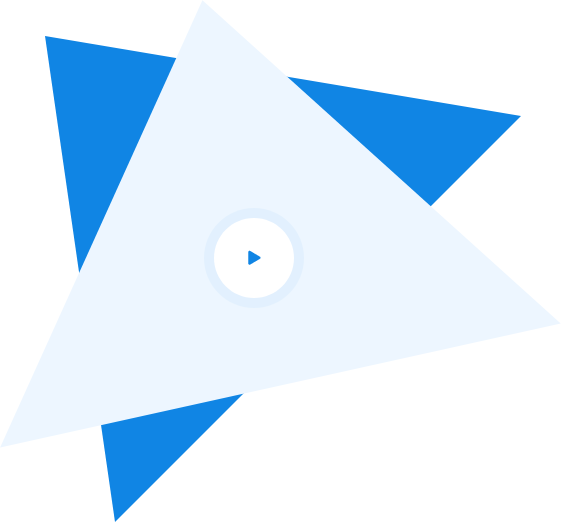
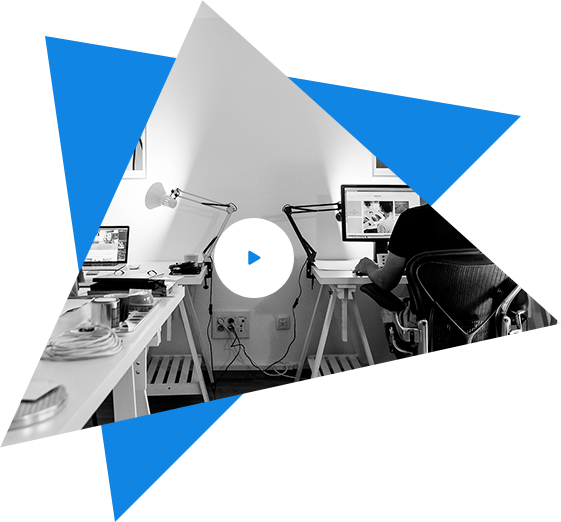
Стилизовали раздел page-app

diff --git a/index.html b/index.html
@@ -1,5 +1,5 @@
 <!DOCTYPE html>
-<html lang="en">
+<html lang="zxx">
 
 <head>
     <meta charset="UTF-8">
@@ -94,21 +94,19 @@
             </div>
             <div class="grid-text">
                 <p>Lorem ipsum dolor sit amet, consectetur adipisicing elit, sed do eiusmod tempor incididunt ut labore
-                et
-                dolore
-                magna aliqua. Ut enim ad minim veniam, quis nostrud exercitation ullamco laboris nisi ut aliquip ex
-                ea
-                commodo
-                consequat. Duis aute irure dolor in reprehenderit in voluptate velit esse cillum dolore eu fugiat
-                nulla
-                pariatur.</p>
-            <div class="grid-text-founder"><span>Rosalina Pong</span> - Founder, uithemes</div>
+                    et
+                    dolore
+                    magna aliqua. Ut enim ad minim veniam, quis nostrud exercitation ullamco laboris nisi ut aliquip ex
+                    ea
+                    commodo
+                    consequat. Duis aute irure dolor in reprehenderit in voluptate velit esse cillum dolore eu fugiat
+                    nulla
+                    pariatur.</p>
+                <div class="grid-text-founder"><span>Rosalina Pong</span> - Founder, uithemes</div>
             </div>
 
-            <
         </div>
     </div>
-
     <div class="page-subscribe">
         <div class="wrap">
             <div class="box-subscribe">
@@ -117,7 +115,7 @@
                     <p>Create your free account now & get 30 days free trail. No credit card required</p>
                     <div class="box-subscribe-user">
                         <input type="email" placeholder="Enter your email address">
-                        <input type="submit" placeholder="Отправить">
+                        <input type="submit" value="Отправить">
                     </div>
 
                 </div>
@@ -129,32 +127,85 @@
     </div>
 
     <div class="page-software">
-        <div></div>
-        <h2>Grab Your Software With Amazing Features</h2>
-        <p>Lorem ipsum dolor sit amet, consectetur adipisicing elit, sed do eiusmod tempor incididunt ut labore et
-            dolore magna aliqua. Ut enim ad minim veniam, quis nostrud exercitation ullamco laboris nisi ut aliquip
-            ex
-            ea commodo consequat. Duis aute irure dolor in reprehenderit in voluptate velit esse cillum.</p>
-        <dl>
-            <dt>01. Clean Design</dt>
-            <dd>
-                Lorem ipsum dolor sit amet, consectetur adipisicing elit, sed do eiusmod tempor incididunt ut labore
-                et
-                dolore magna aliqua. Ut enim ad minim veniam, quis nostrud exercitation ullamco laboris nisi ut
-                aliquip
-                ex ea commodo consequat. Duis aute irure dolor in reprehenderit in voluptate velit esse cillum.
-            </dd>
-            <dt>02. Easy To Customize</dt>
-            <dd>
-                Lorem ipsum dolor sit amet, consectetur adipisicing elit, sed do eiusmod tempor incididunt ut labore
-                et
-                dolore magna aliqua. Ut enim ad minim veniam, quis nostrud exercitation ullamco laboris nisi ut
-                aliquip
-                ex ea commodo consequat. Duis aute irure dolor in reprehenderit in voluptate velit esse cillum.
-            </dd>
-        </dl>
+        <div class="page-software-flex wrap">
+            <div>
+                <div class="page-software-icon">
 
+                </div>
+                <h2 class="title-h2">Grab Your Software With Amazing Features</h2>
+                <p>Lorem ipsum dolor sit amet, consectetur adipisicing elit, sed do eiusmod tempor incididunt ut
+                    labore
+                    et
+                    dolore magna aliqua. Ut enim ad minim veniam, quis nostrud exercitation ullamco laboris nisi ut
+                    aliquip
+                    ex
+                    ea commodo consequat. Duis aute irure dolor in reprehenderit in voluptate velit esse cillum.</p>
+                <dl class="page-software-list">
+                    <dt>01. Clean Design</dt>
+                    <dd>
+                        Lorem ipsum dolor sit amet, consectetur adipisicing elit, sed do eiusmod tempor incididunt
+                        ut
+                        labore
+                        et
+                        dolore magna aliqua. Ut enim ad minim veniam, quis nostrud exercitation ullamco laboris nisi
+                        ut
+                        aliquip
+                        ex ea commodo consequat. Duis aute irure dolor in reprehenderit in voluptate velit esse
+                        cillum.
+                    </dd>
+                    <dt>02. Easy To Customize</dt>
+                    <dd>
+                        Lorem ipsum dolor sit amet, consectetur adipisicing elit, sed do eiusmod tempor incididunt
+                        ut
+                        labore
+                        et
+                        dolore magna aliqua. Ut enim ad minim veniam, quis nostrud exercitation ullamco laboris nisi
+                        ut
+                        aliquip
+                        ex ea commodo consequat. Duis aute irure dolor in reprehenderit in voluptate velit esse
+                        cillum.
+                    </dd>
+                    <dt>03. Clean Design</dt>
+                    <dd>
+                        Lorem ipsum dolor sit amet, consectetur adipisicing elit, sed do eiusmod tempor incididunt
+                        ut
+                        labore
+                        et
+                        dolore magna aliqua. Ut enim ad minim veniam, quis nostrud exercitation ullamco laboris nisi
+                        ut
+                        aliquip
+                        ex ea commodo consequat. Duis aute irure dolor in reprehenderit in voluptate velit esse
+                        cillum.
+                    </dd>
+                    <dt>04. Clean Design</dt>
+                    <dd>
+                        Lorem ipsum dolor sit amet, consectetur adipisicing elit, sed do eiusmod tempor incididunt
+                        ut
+                        labore
+                        et
+                        dolore magna aliqua. Ut enim ad minim veniam, quis nostrud exercitation ullamco laboris nisi
+                        ut
+                        aliquip
+                        ex ea commodo consequat. Duis aute irure dolor in reprehenderit in voluptate velit esse
+                        cillum.
+                    </dd>
+                    <dt>05. Clean Design</dt>
+                    <dd>
+                        Lorem ipsum dolor sit amet, consectetur adipisicing elit, sed do eiusmod tempor incididunt
+                        ut
+                        labore
+                        et
+                        dolore magna aliqua. Ut enim ad minim veniam, quis nostrud exercitation ullamco laboris nisi
+                        ut
+                        aliquip
+                        ex ea commodo consequat. Duis aute irure dolor in reprehenderit in voluptate velit esse
+                        cillum.
+                    </dd>
+                </dl>
+            </div>
+        </div>
     </div>
+
 
     <div class="page-stat">
 
@@ -171,18 +222,22 @@
     </div>
 
     <div class="page-app">
-
-        <h2>Meet With Future Landingpage</h2>
-        <p>Lorem ipsum dolor sit amet, consectetur adipisicing elit, sed do eiusmod tempor incididunt ut labore et
-            dolore magna aliqua. Ut enim ad minim veniam, quis nostrud exercitation ullamco laboris nisi ut aliquip
-            ex ea commodo consequat. Duis aute irure dolor in reprehenderit in voluptate velit esse cillum.</p>
-        <p>Available Now</p>
-        <ul>
-            <li><a href="#" target="_blank"></a></li>
-            <li><a href="#" target="_blank"></a></li>
-        </ul>
-        <img src="img/play.png" alt="#">
-
+        <div class="wrap">
+            <div class="content-app">
+                <h2 class="title-h2">Meet With  Future&nbsp;Landingpage</h2>
+                <p>Lorem ipsum dolor sit amet, consectetur adipisicing elit, sed do eiusmod tempor incididunt ut labore
+                    et
+                    dolore magna aliqua. Ut enim ad minim veniam, quis nostrud exercitation ullamco laboris nisi ut
+                    aliquip
+                    ex ea commodo consequat. Duis aute irure dolor in reprehenderit in voluptate velit esse cillum.</p>
+                <p class="page-app-text">Available Now</p>
+                <ul class="page-app-list">
+                    <li><a class="page-app-android" href="#" target="_blank"></a></li>
+                    <li><a class="page-app-ios" href="#" target="_blank"></a></li>
+                </ul>
+            </div>
+            <a class="video-app" href="#"><img src="img/play.png" alt="video"></a>
+        </div>
     </div>
 
     <div class="page-analytics">
@@ -193,11 +248,13 @@
                     <img src="img/icon.png" width="88" height="88" alt="">
                 </div>
                 <h2>Limpon Is Suitable For Anytype LandingPage</h2>
-                <p>Lorem ipsum dolor sit amet, consectetur adipisicing elit, sed do eiusmod tempor incididunt ut labore
+                <p>Lorem ipsum dolor sit amet, consectetur adipisicing elit, sed do eiusmod tempor incididunt ut
+                    labore
                     et
                     dolore magna aliqua. Ut enim ad minim veniam, quis nostrud exercitation ullamco laboris nisi ut
                     aliquip
-                    ex ea commodo consequat. Duis aute irure dolor in reprehenderit in voluptate velit esse cillum.</p>
+                    ex ea commodo consequat. Duis aute irure dolor in reprehenderit in voluptate velit esse cillum.
+                </p>
                 <a href="#" class="btn-primary">get started now</a>
             </div>
         </div>
@@ -207,8 +264,10 @@
         <div>
             <img src="img/icon.png" width="88" height="88" alt="">
             <h2>Easy To Etid & Very Easily Control</h2>
-            <p>Lorem ipsum dolor sit amet, consectetur adipisicing elit, sed do eiusmod tempor incididunt ut labore et
-                dolore magna aliqua. Ut enim ad minim veniam, quis nostrud exercitation ullamco laboris nisi ut aliquip
+            <p>Lorem ipsum dolor sit amet, consectetur adipisicing elit, sed do eiusmod tempor incididunt ut labore
+                et
+                dolore magna aliqua. Ut enim ad minim veniam, quis nostrud exercitation ullamco laboris nisi ut
+                aliquip
                 ex ea commodo consequat. Duis aute irure dolor in reprehenderit in voluptate velit esse cillum.</p>
             <a href="#" class="btn-primary">learn more</a>
         </div>
@@ -326,10 +385,10 @@
 
     <div class="page-form">
         <h2>Start Your Free Trail No Need Credit Card.</h2>
-        <form action="">
-            <input type="text" name="" id="" placeholder="Enter your name here">
-            <input type="email" name="" id="" placeholder="Enter your email here">
-            <textarea name="" id="" placeholder="Enter your message here"></textarea>
+        <form action="sendEmail">
+            <input type="text" placeholder="Enter your name here">
+            <input type="email" placeholder="Enter your email here">
+            <textarea placeholder="Enter your message here"></textarea>
             <button type="submit" class="btn-primary"><span></span>Submit now</button>
         </form>
     </div>

diff --git a/css/style.css b/css/style.css
@@ -312,7 +312,86 @@ a {
 
 .page-subscribe {
     background-color: #12224b;
-    background-image: linear-gradient(-240deg, #0a2090 0%, #76a0ca 100%);
+    background-image: linear-gradient(-240deg, #0d162e 0%, #1085e4 100%);
+}
+
+.page-software {
+    background-image: url(../img/software-fon.png);
+    background-repeat: no-repeat;
+    background-size: 45%;
+    background-position-x: left;
+    background-position-y: bottom;
+
+}
+
+.page-software-flex {
+    display: flex;
+    justify-content: flex-end;
+}
+
+.page-software-flex>div {
+    flex-basis: 55%;
+    padding: 48px 0 20px 0;
+}
+
+.page-software .title-h2 {
+    max-width: 537px;
+    margin-top: 31px;
+    margin-bottom: 31px;
+    margin-left: -10px;
+}
+
+.page-software-list {
+    margin-top: 38px;
+    height: 340px;
+    overflow: hidden;
+    overflow-y: scroll;
+}
+
+.page-software-list dt {
+    color: #5a6789;
+    font-size: 16px;
+    font-weight: 700;
+    line-height: 26px;
+    margin-bottom: 20px;
+}
+
+.page-software-list dd {
+    font-size: 14px;
+    font-weight: 400;
+    line-height: 24px;
+    margin-left: 0;
+    margin-bottom: 50px;
+}
+
+.page-software-list::-webkit-scrollbar {
+    width: 4px;
+    height: 314px;
+    background-color: #f3f6ff;
+}
+
+.page-software-list::-webkit-scrollbar-track {
+    background-color: #f3f6ff;
+    ;
+}
+
+.page-software-list::-webkit-scrollbar-track-piece {
+    background-color: #ffffff;
+}
+
+.page-software-list::-webkit-scrollbar-thumb {
+    height: 20px;
+    background-color: #1085e4;
+    border-radius: 4px;
+}
+
+.page-software-icon {
+    display: block;
+    background-image: url(../img/software-icon.png);
+    width: 115px;
+    height: 97px;
+    background-repeat: no-repeat;
+    margin-left: -25px;
 }
 
 .list-stat {
@@ -346,6 +425,68 @@ a {
 .page-stat .title-h2 {
     text-align: center;
 }
+
+.page-app {
+    position: relative;
+    background: url(../img/Intro.png) no-repeat 39% top, url(../img/circle.png) no-repeat -50% 80%;
+}
+
+.page-app-text {
+    color: #c4d2dd;
+    font-size: 16px;
+    font-weight: 700;
+    line-height: 60px;
+    text-transform: uppercase;
+    letter-spacing: 3.2px;
+    margin-top: 37px;
+    margin-bottom: 30px;
+}
+
+.page-app-list {
+    padding: 0;
+    margin-left: -17px;
+    list-style-type: none;
+    padding-bottom: 121px;
+}
+
+.page-app-list>li>a {
+    background-image: url(../img/sprite-app.png);
+    background-repeat: no-repeat;
+    display: block;
+    width: 185px;
+    height: 78px;
+}
+
+.page-app-list>li {
+    display: inline-block;
+}
+
+
+.page-app-android {
+    background-position: 0 0;
+}
+
+.page-app-ios {
+    background-position: -191px;
+}
+
+.content-app {
+    width: 55%;
+}
+
+.content-app .title-h2 {
+    margin-top: 122px;
+    margin-left: -7px;
+    margin-bottom: 41px;
+}
+
+.video-app {
+    position: absolute;
+    top: -20px;
+    right: 100px;
+}
+
+
 
 .title-h2 {
     color: #192b59;
